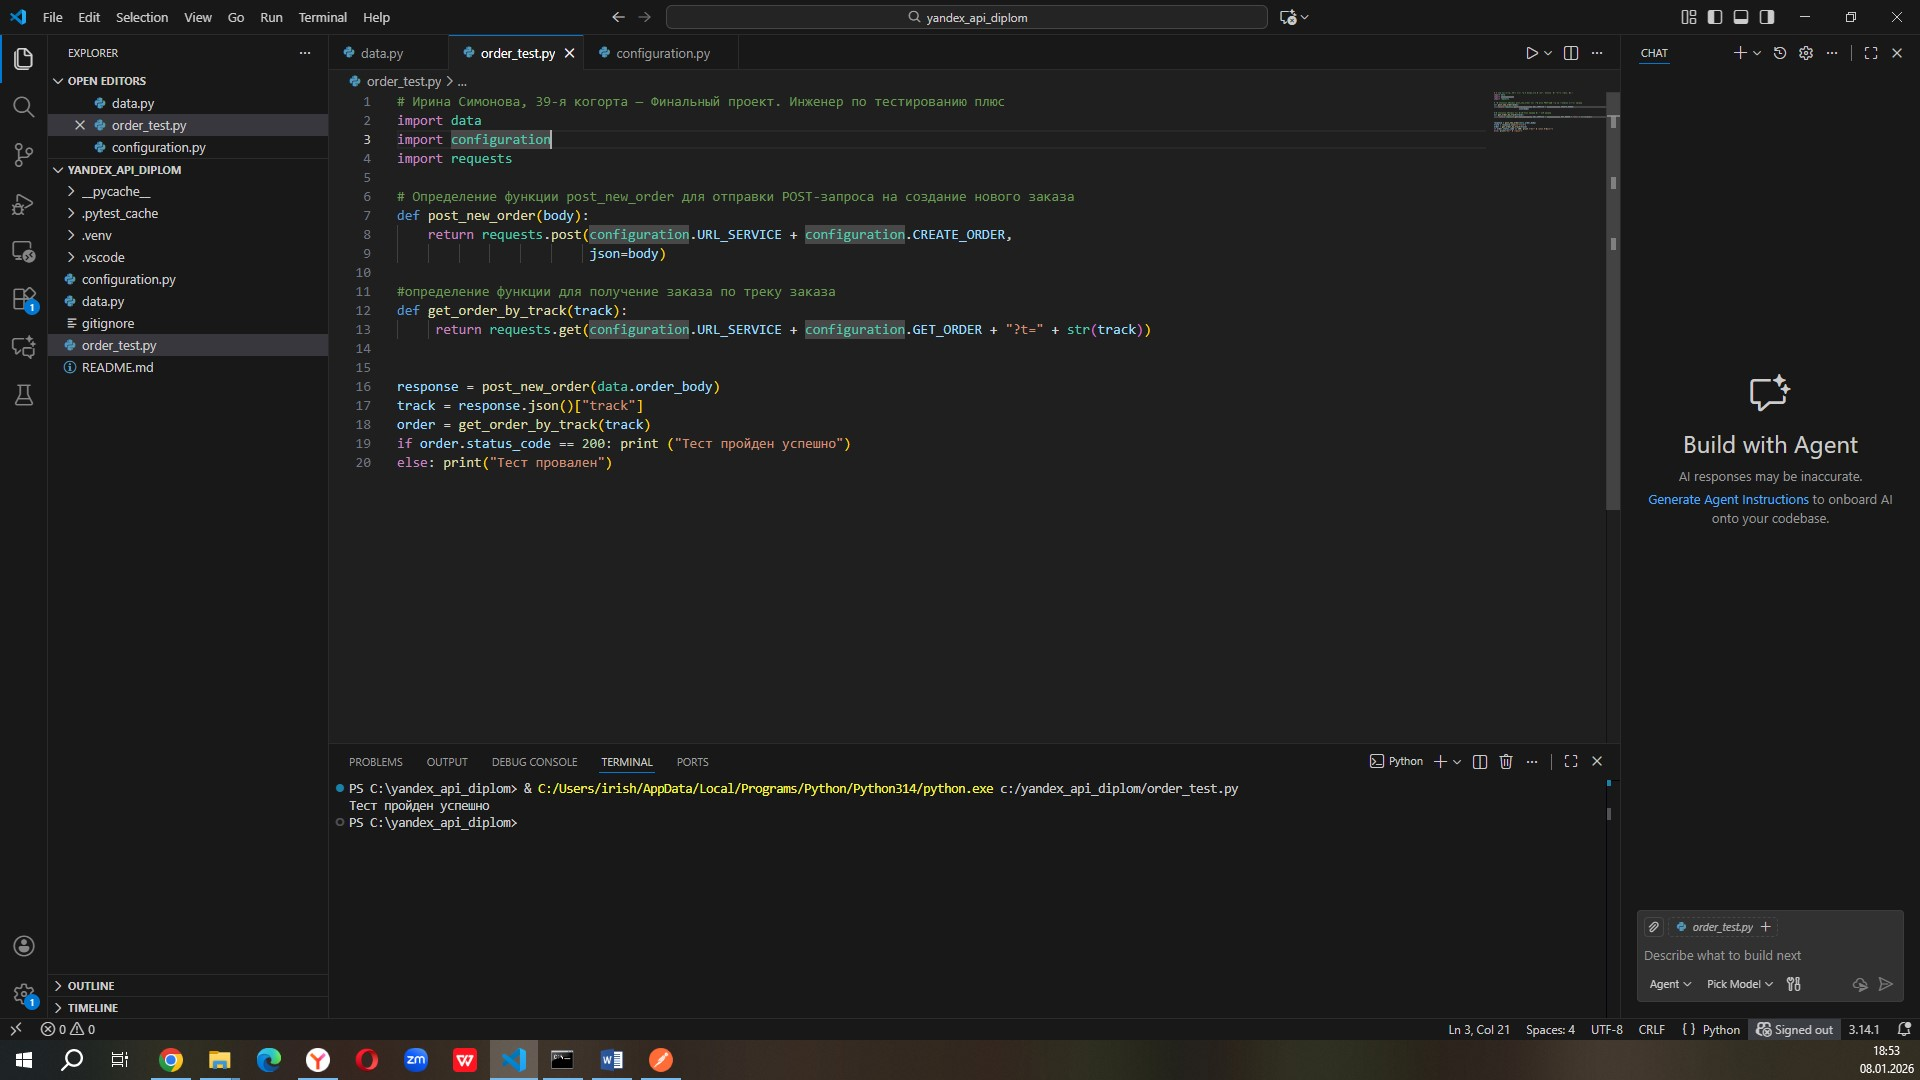
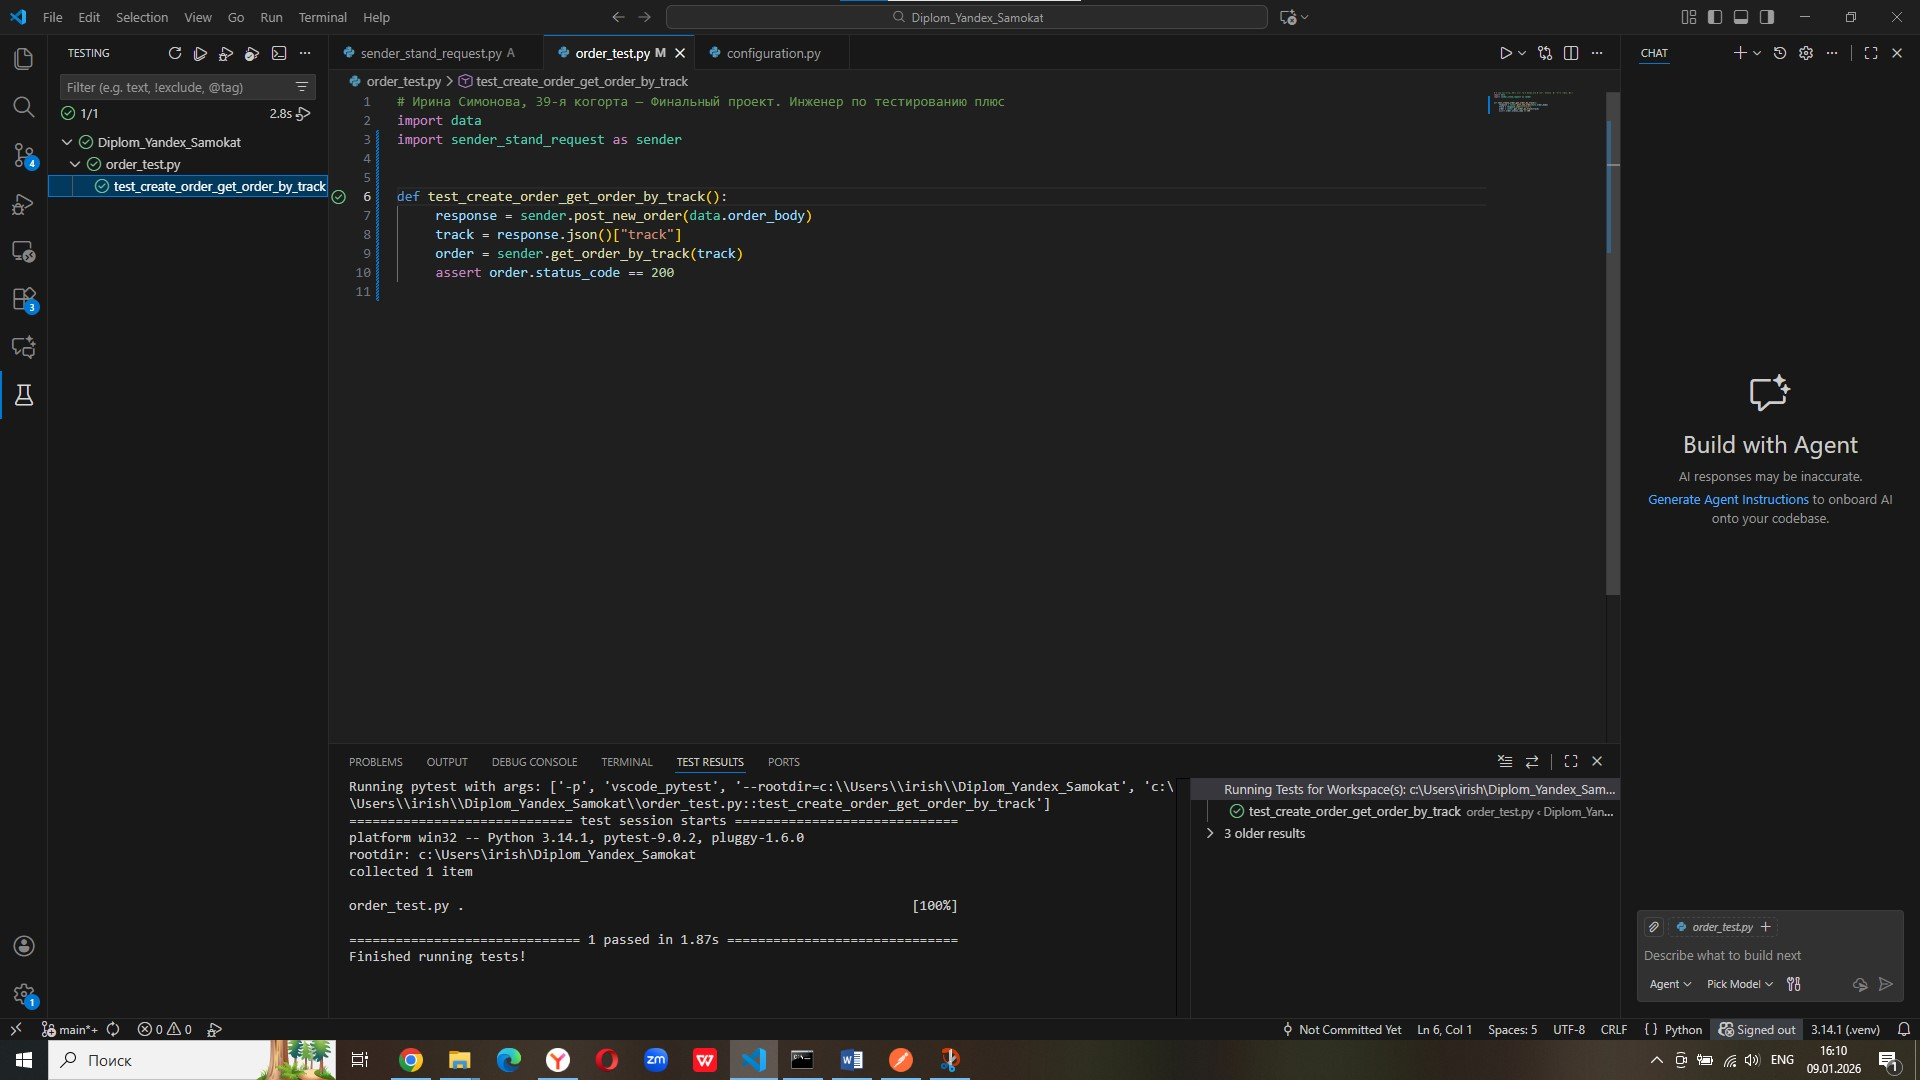
Changes after review

diff --git a/order_test.py b/order_test.py
@@ -1,20 +1,11 @@
 # Ирина Симонова, 39-я когорта — Финальный проект. Инженер по тестированию плюс
 import data
-import configuration
-import requests
-
-# Определение функции post_new_order для отправки POST-запроса на создание нового заказа
-def post_new_order(body):
-    return requests.post(configuration.URL_SERVICE + configuration.CREATE_ORDER,
-                         json=body)
-
-#определение функции для получение заказа по треку заказа
-def get_order_by_track(track):
-     return requests.get(configuration.URL_SERVICE + configuration.GET_ORDER + "?t=" + str(track)) 
+import sender_stand_request as sender
 
 
-response = post_new_order(data.order_body)
-track = response.json()["track"]
-order = get_order_by_track(track)
-if order.status_code == 200: print ("Тест пройден успешно")
-else: print("Тест провален")
+def test_create_order_get_order_by_track():
+     response = sender.post_new_order(data.order_body)
+     track = response.json()["track"]
+     order = sender.get_order_by_track(track)
+     assert order.status_code == 200
+     

diff --git a/configuration.py b/configuration.py
@@ -1,6 +1,6 @@
 # URL_SERVICE хранит базовый URL веб-сервиса, который используется для доступа к API или другим ресурсам.
 # Значение должно быть скопировано из настроек или документации сервиса, к которому предоставляется доступ.
 # Пример значения: "https://api.example.com"
-URL_SERVICE = "https://1ef65229-9b59-43e8-80cd-7c5b71024a5c.serverhub.praktikum-services.ru"
+URL_SERVICE = " https://4bd29182-4f63-47cb-b5f4-26b554cb4f02.serverhub.praktikum-services.ru"
 CREATE_ORDER = "/api/v1/orders"
 GET_ORDER = "/api/v1/orders/track"
